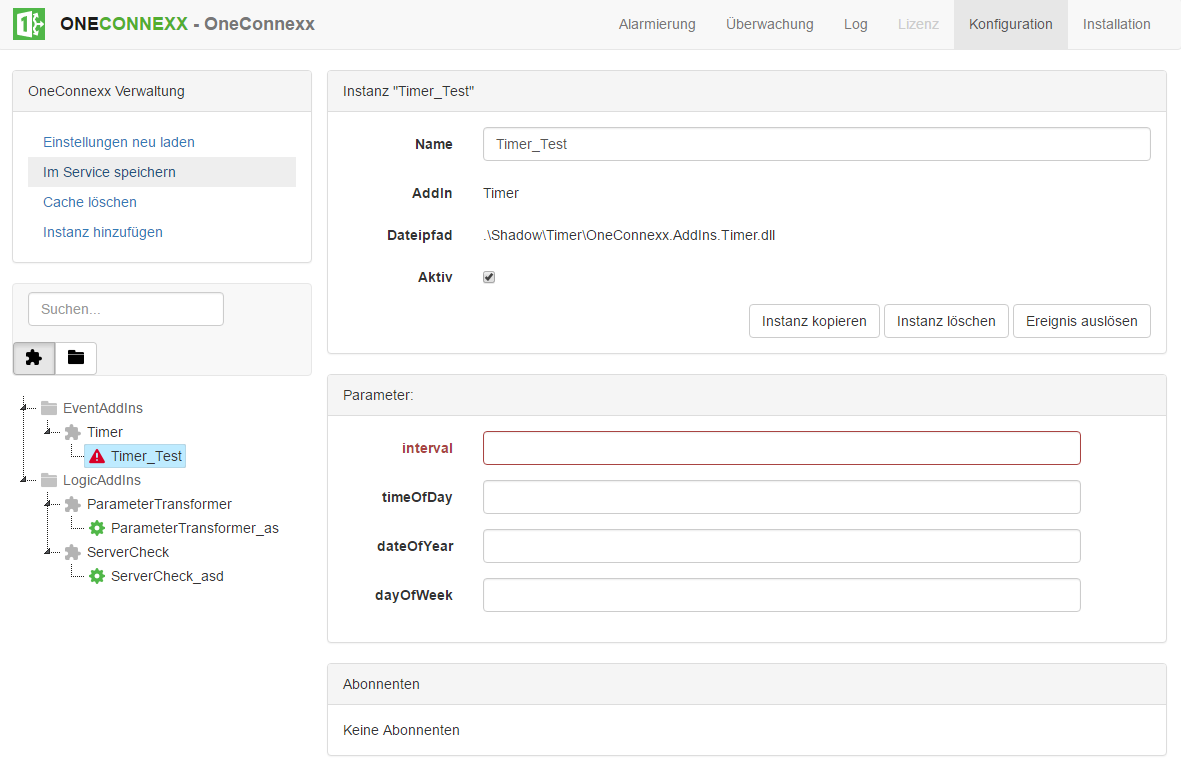
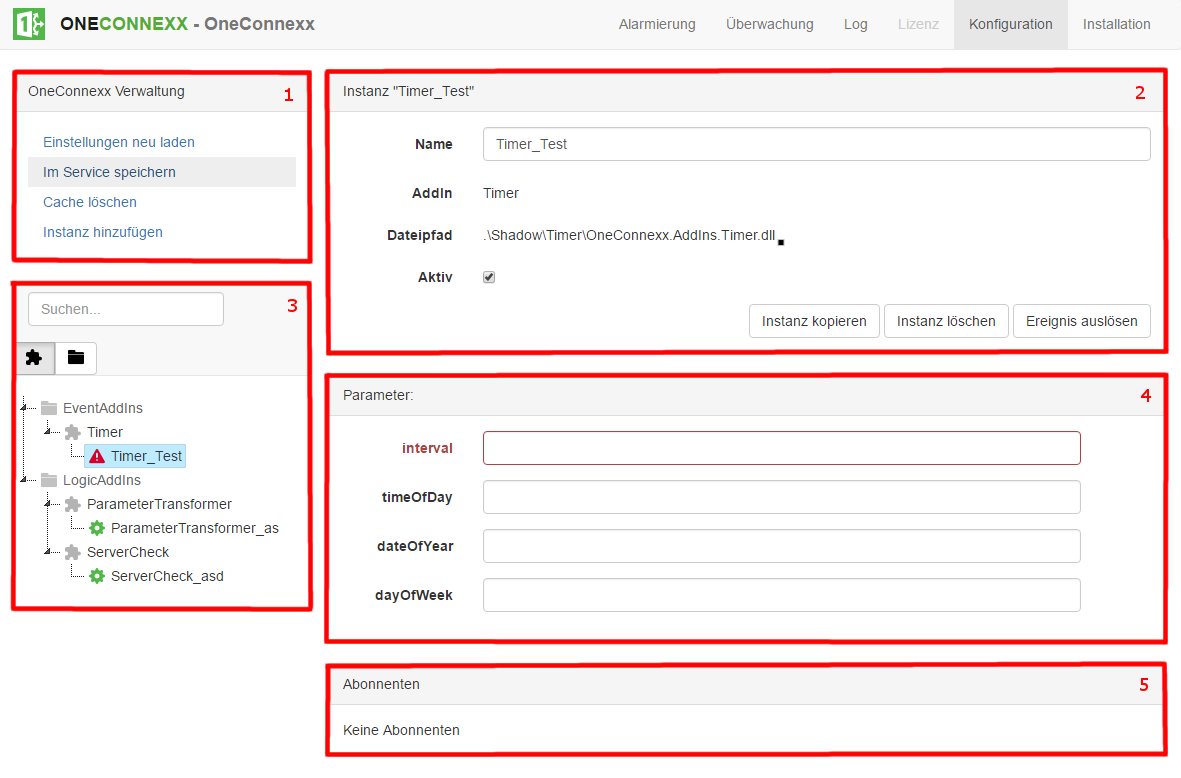
Arbeit an Konfigurationsseite

Changed region(s): [[0.0, 0.0617, 1.0, 0.9871]]

diff --git a/_pages/webclient/de/konfiguration.md b/_pages/webclient/de/konfiguration.md
@@ -11,10 +11,32 @@ __in Progress__
 Die Konfigurationsseite bietet ein Übersicht über alle konfigurierten Addin Instanzen und deren Details 
 
 
-
-
-
 ![x]({{ site.baseurl }}/assets/content-images/webclient/de/addinoverview.png "Addin Overview")
+
+1. Instanz Verwalten
+  *Einstellungen neu laden
+  
+  
+  *Im Service Speichern
+  
+  *Cache Löschen
+  
+  *Instanz Hinzufügen
+  
+2. Instanz Details
+  *Name
+  
+  *Addin
+  
+  *Dateipfad
+  
+  *Aktiv
+  
+  *Buttons
+    1. Instanz Kopieren
+	2. Instanz Löschen
+	3. Ereignis Auslösen
+
 
 Ein __"OneOffixxConnectBatch"__ umfasst eins oder mehrere __"OneOffixxConnect"__ "Entries". 
 
